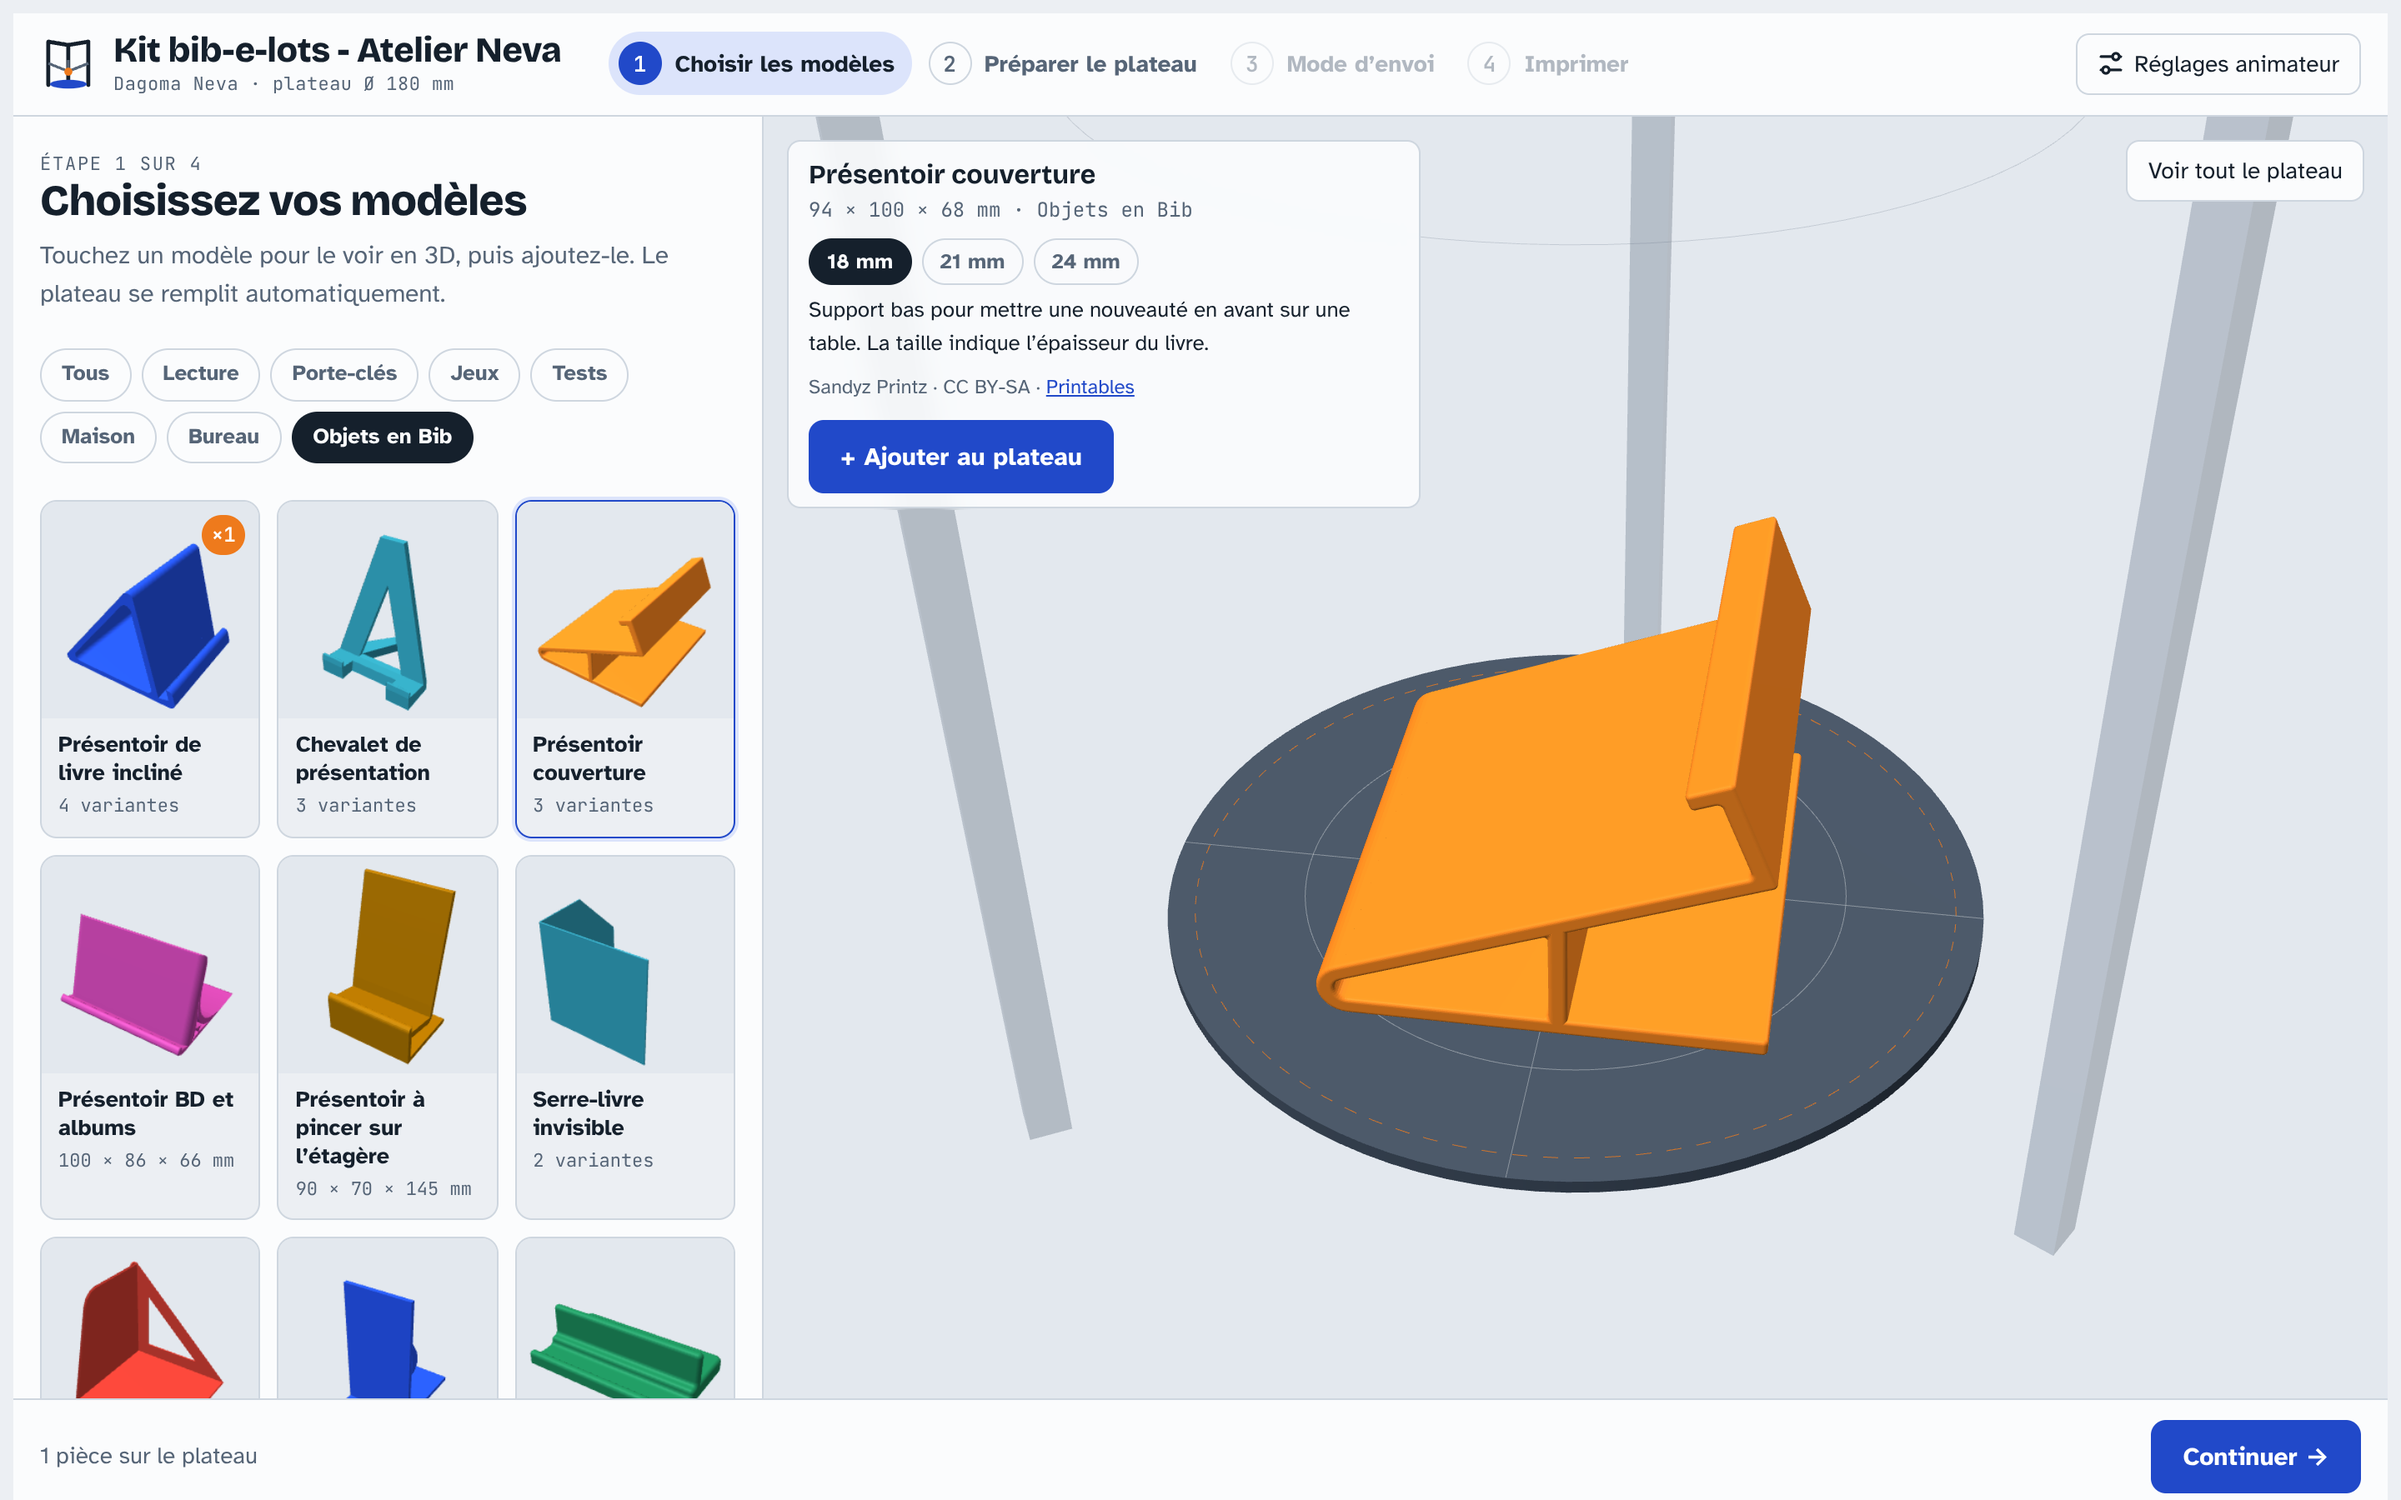
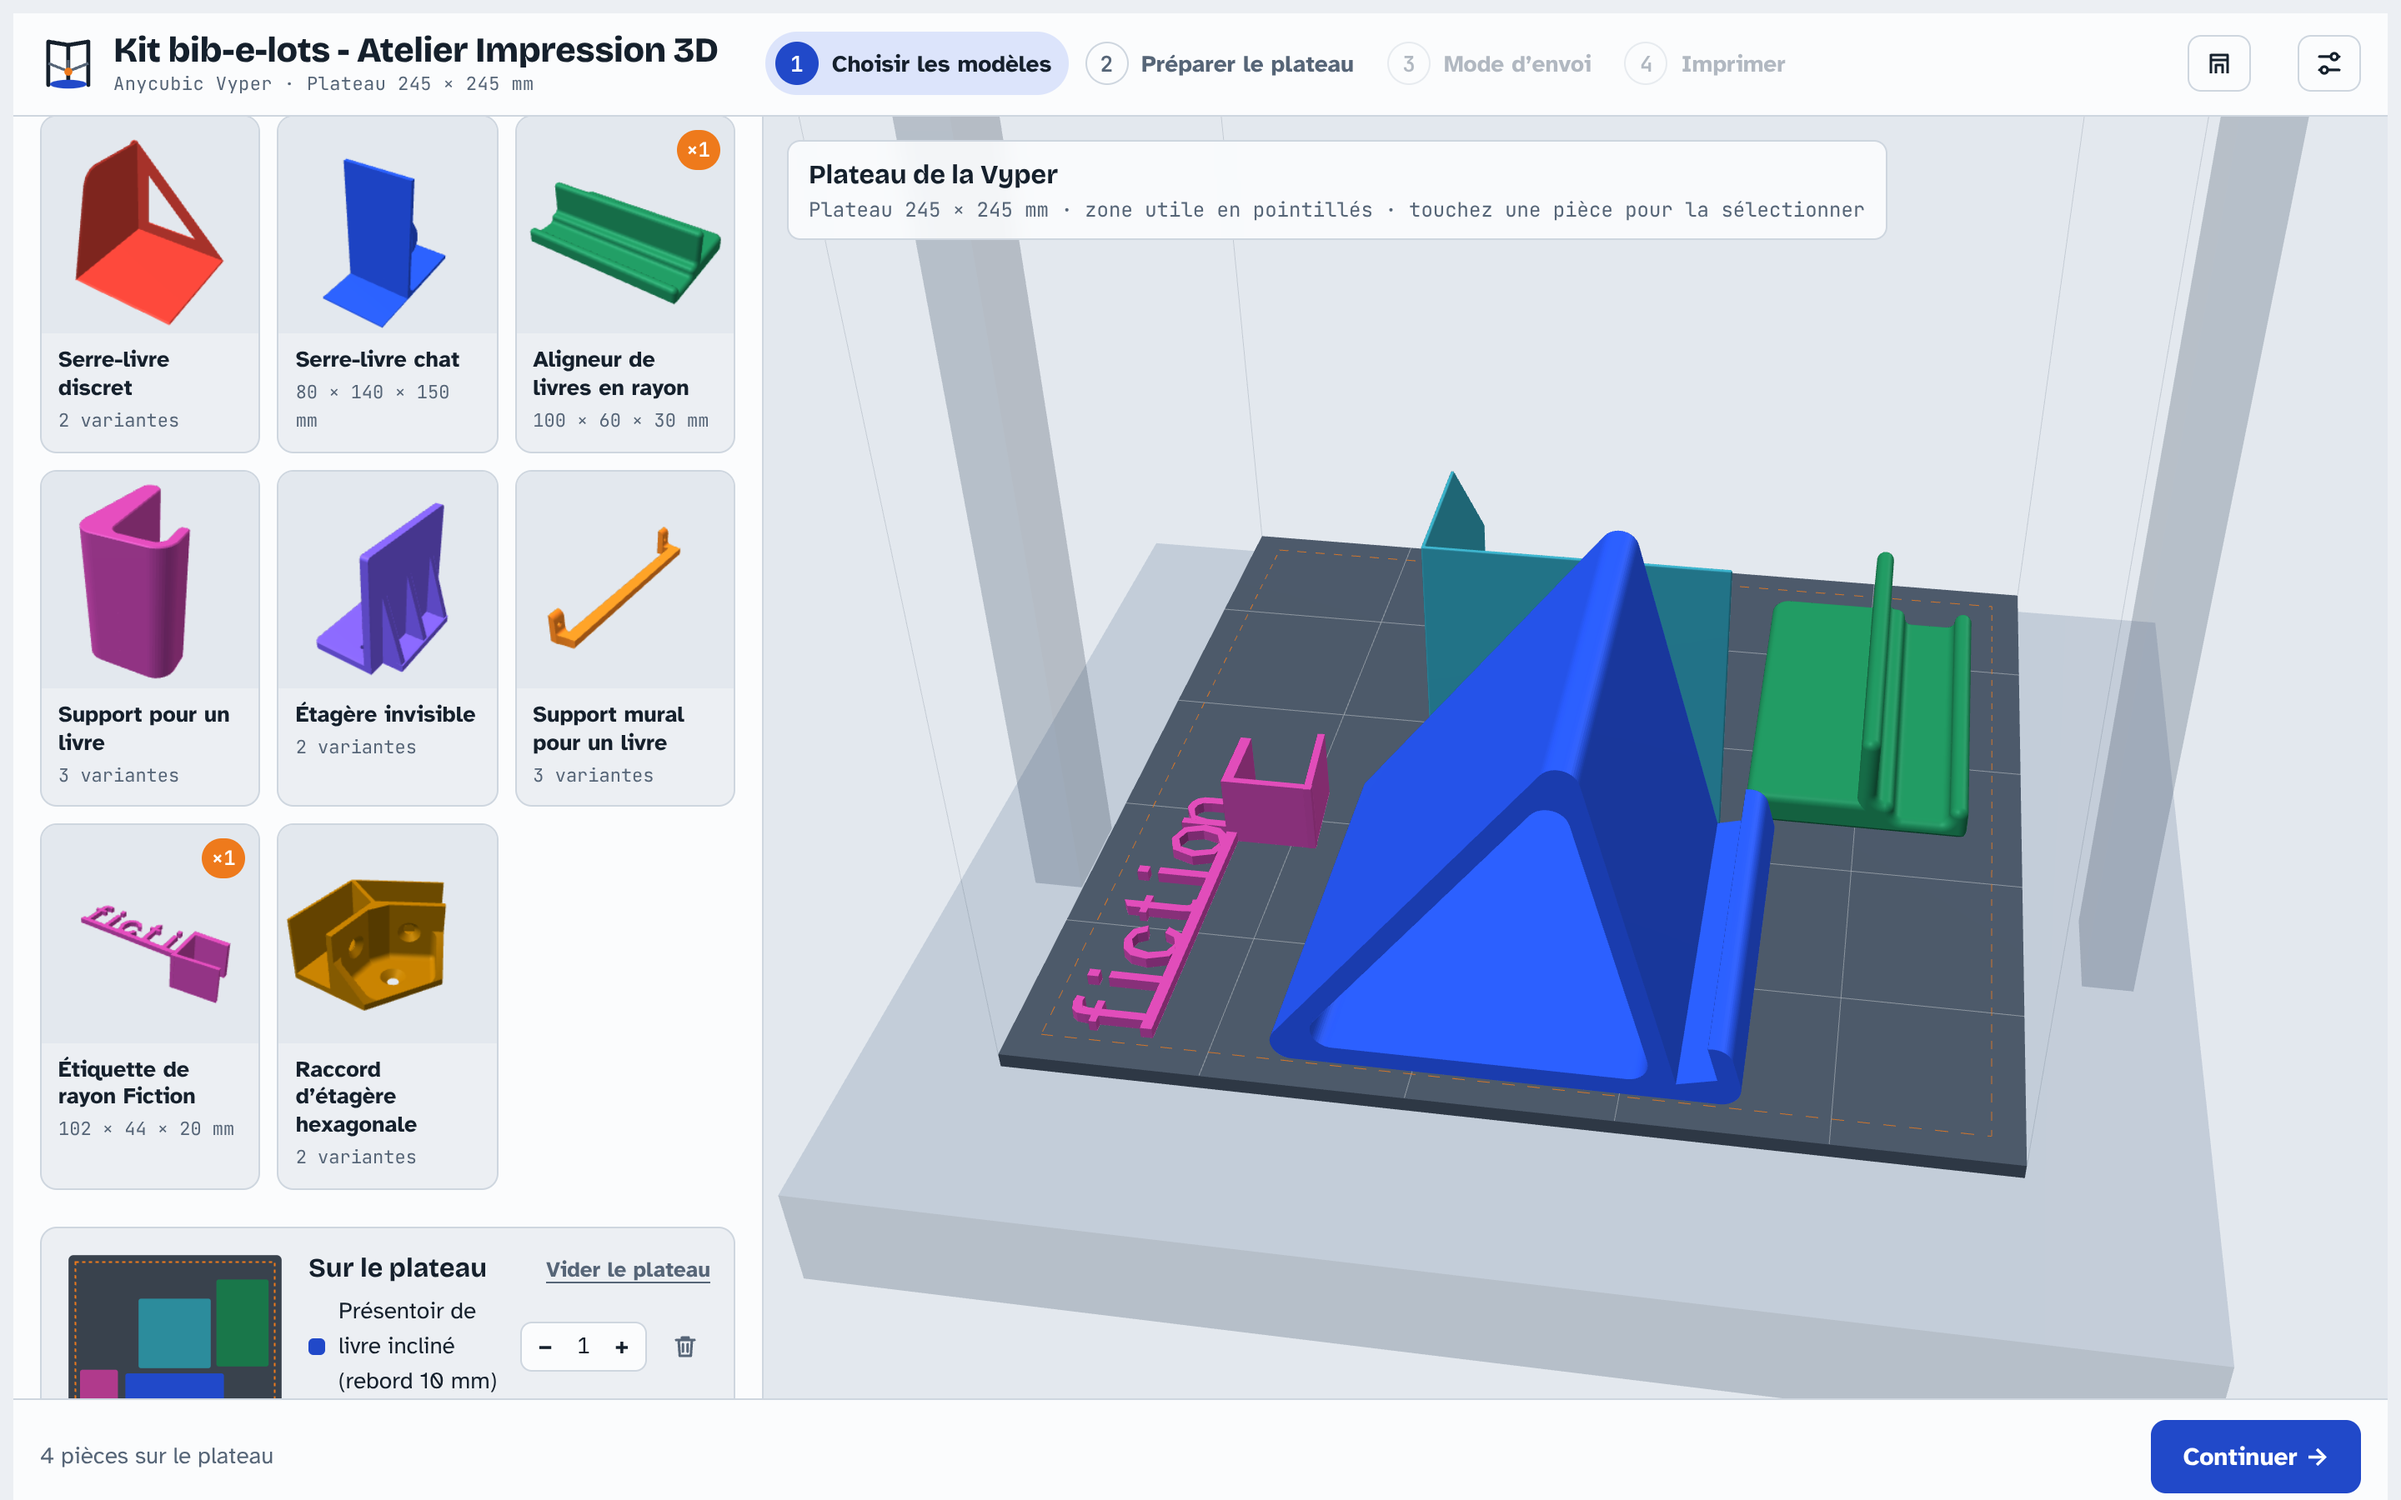
Version 2.0.0 : Atelier Impression 3D (Neva et Vyper)
- Application de bureau renommée « Atelier Impression 3D », version 2.0.0
- README : captures de l'écran d'accueil et du plateau de la Vyper

Claude-Session: https://claude.ai/code/session_01Y338jxQ7S8Ru35sxhvu1CC

diff --git a/electron/main.js b/electron/main.js
@@ -1,6 +1,6 @@
-/* Kit bib-e-lots - Atelier Neva — application de bureau (Electron)
+/* Kit bib-e-lots - Atelier Impression 3D — application de bureau (Electron)
    Sert l'application web depuis les fichiers locaux (fonctionne hors ligne)
-   et autorise l'accès au port série pour piloter la Neva par câble USB. */
+   et autorise l'accès au port série pour piloter l’imprimante par câble USB. */
 const { app, BrowserWindow, protocol, net, dialog, shell, Menu } = require('electron');
 const path = require('path');
 const { pathToFileURL } = require('url');
@@ -18,7 +18,7 @@ function createWindow() {
     height: 880,
     minWidth: 900,
     minHeight: 600,
-    title: 'Kit bib-e-lots - Atelier Neva',
+    title: 'Kit bib-e-lots - Atelier Impression 3D',
     backgroundColor: '#ECEFF3',
     icon: path.join(ROOT, 'build', 'icon.png'),
     webPreferences: { contextIsolation: true, nodeIntegration: false, sandbox: true }
@@ -30,7 +30,7 @@ function createWindow() {
   ses.on('select-serial-port', (event, portList, webContents, callback) => {
     event.preventDefault();
     if (!portList.length) {
-      dialog.showMessageBox(win, { type: 'warning', message: 'Aucune imprimante détectée', detail: 'Vérifiez que la Neva est allumée et reliée à l’ordinateur par le câble USB.' });
+      dialog.showMessageBox(win, { type: 'warning', message: 'Aucune imprimante détectée', detail: 'Vérifiez que l’imprimante est allumée et reliée à l’ordinateur par le câble USB.' });
       return callback('');
     }
     if (portList.length === 1) return callback(portList[0].portId);

diff --git a/README.md b/README.md
@@ -1,6 +1,8 @@
 # Kit bib-e-lots - Atelier Impression 3D
 
-![Atelier Neva : choix des modèles dans la catégorie « Objets en Bib », avec l’aperçu 3D sur le plateau de la Neva](docs/capture.png)
+![Écran d’accueil : choix de l’imprimante, Dagoma Neva ou Anycubic Vyper](docs/accueil.png)
+
+![Choix des modèles « Objets en Bib » placés automatiquement sur le plateau de la Vyper](docs/capture.png)
 
 Application web pour imprimer en 3D sans connaître le slicing, sur **Dagoma Neva** ou **Anycubic Vyper**.
 Au lancement, l'usager touche l'imprimante posée devant lui ; l'atelier s'adapte à son plateau et à son mode d'emploi.
@@ -19,18 +21,18 @@ Les versions de bureau sont dans les [Releases](https://github.com/biblioGironde
 
 | Système | Fichier |
 |---|---|
-| macOS (Apple Silicon M1–M4) | `Atelier-Neva-…-mac-arm64.dmg` |
-| macOS (Intel) | `Atelier-Neva-…-mac-x64.dmg` |
-| Windows | `Atelier-Neva-…-windows-installation.exe` (installeur) ou `…-windows-portable.exe` (sans installation) |
-| Linux | `Atelier-Neva-…-linux-x86_64.AppImage` ou `.tar.gz` |
+| macOS (Apple Silicon M1–M4) | `Atelier-Impression3D-…-mac-arm64.dmg` |
+| macOS (Intel) | `Atelier-Impression3D-…-mac-x64.dmg` |
+| Windows | `Atelier-Impression3D-…-windows-installation.exe` (installeur) ou `…-windows-portable.exe` (sans installation) |
+| Linux | `Atelier-Impression3D-…-linux-x86_64.AppImage` ou `.tar.gz` |
 
 L'application de bureau fonctionne **hors ligne** et propose toujours le **câble USB**, quel que soit le navigateur installé.
 
 Les applications ne sont pas signées :
 
-- **macOS** : au premier lancement, clic droit sur l'application → **Ouvrir**, puis confirmer. Si macOS indique que l'application est « endommagée », lancer dans le Terminal : `xattr -cr "/Applications/Atelier Neva.app"`.
+- **macOS** : au premier lancement, clic droit sur l'application → **Ouvrir**, puis confirmer. Si macOS indique que l'application est « endommagée », lancer dans le Terminal : `xattr -cr "/Applications/Atelier Impression 3D.app"`.
 - **Windows** : si SmartScreen s'affiche, cliquer sur **Informations complémentaires** → **Exécuter quand même**.
-- **Linux** : rendre l'AppImage exécutable (`chmod +x Atelier-Neva-*.AppImage`).
+- **Linux** : rendre l'AppImage exécutable (`chmod +x Atelier-Impression3D-*.AppImage`).
 
 ## Version web
 
